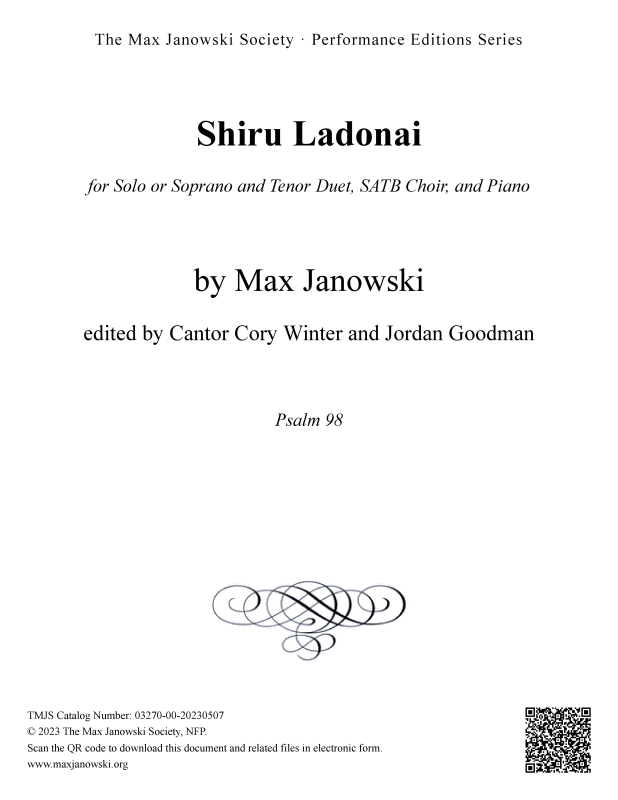
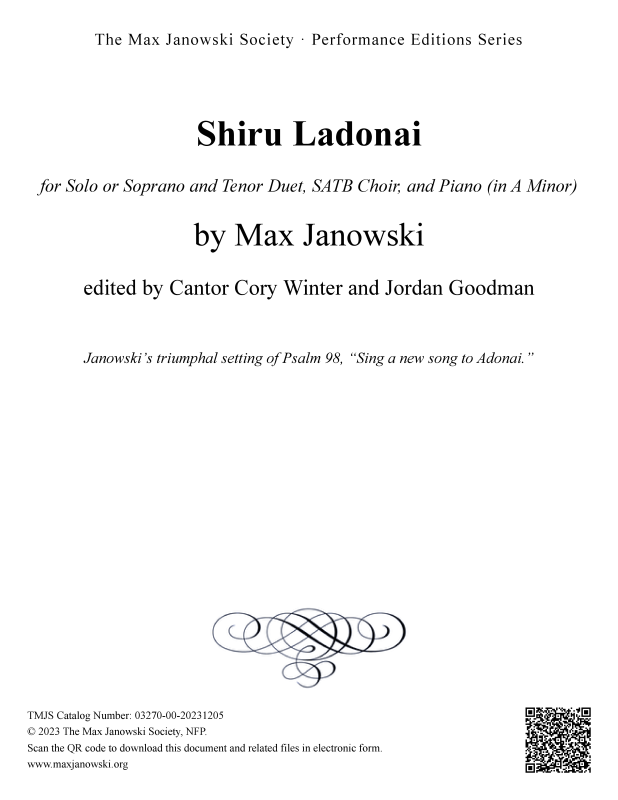
updates for 20240101 release

diff --git a/private/covergen.html b/private/covergen.html
@@ -2,106 +2,117 @@
 sitemap: false
 layout: none
 ---
+
 <!DOCTYPE html>
 <html>
+  <head>
+    <meta charset="utf-8" />
+    <title>TMJS Cover Generator</title>
+    <script
+      src="https://cdnjs.cloudflare.com/ajax/libs/qrcodejs/1.0.0/qrcode.js"
+      defer
+    ></script>
+    <script
+      src="https://unpkg.com/js-yaml@4.1.0/dist/js-yaml.min.js"
+      defer
+    ></script>
+    <link
+      rel="stylesheet"
+      href="https://fonts.googleapis.com/css2?family=Times+New_Roman&amp;family=Noto+Music"
+    />
 
-<head>
-  <meta charset="utf-8"/>
-  <title>TMJS Cover Generator</title>
-  <script src="https://cdnjs.cloudflare.com/ajax/libs/qrcodejs/1.0.0/qrcode.js" defer></script>
-  <script src="https://unpkg.com/js-yaml@4.1.0/dist/js-yaml.min.js" defer></script>
-  <script src="/assets/main.js"></script>
-  <script src="/assets/covergen.js"></script>
-  <link rel="stylesheet" href="/assets/main.css" />
-  <link rel="stylesheet" href="/assets/covergen.css" />
-  <script>
-    window.addEventListener("load", coverGenInit);
-  </script>
-</head>
+    <script src="/assets/main.js"></script>
+    <script src="/assets/covergen.js"></script>
+    <link rel="stylesheet" href="/assets/main.css" />
+    <link rel="stylesheet" href="/assets/covergen.css" />
+    <script>
+      window.addEventListener("load", coverGenInit);
+    </script>
+  </head>
 
-<body>
-  <div id="pageselect">
-    <h2>The Max Janowski Society</h2>
-    <h1>Cover Page Generator</h1>
-    <p>
-      For internal use only.
-    </p>
-    <p>
-      When printing (or saving to PDF for insertion into sheet music):
-    </p>
-    <ul>
-      <li>
-        Paper size: U.S. Letter
-      </li>
-      <li>
-        Orientation: Portrait
-      </li>
-      <li>
-        Margins: None
-      </li>
-      <li>
-        Scaling: 100%
-      </li>
-      <li>
-        Headers/Footers: off
-      </li>
-    </ul>
-    <div id="errormsg"></div>
-    <div id="dragdrop">Drop yaml file here!</div>
-    Version:
-    <select id="select-version" name="version">
-      <option value="00" selected>00</option>
-    </select>
-  </div>
-  <div id="pages" class="">
-    <div class="print-page cover-page break-after">
-      <div>
-        <p class="head">The Max Janowski Society · Performance Editions Series</p>
-        <p class="title"></p>
-        <p class="version"></p>
-      </div>
-      <div>
-        <p class="author"></p>
-        <p class="edited"></p>
-      </div>
-      <p class="blurb"></p>
-      <img class="page-break" src="https://www.maxjanowski.org/images/pagebreak-300x87.png" alt="pagebreak" />
-      <div class="footer">
-        <div class="catalog">
-          <p class="catalog-number">TMJS Catalog Number: <span class='sku'></span></p>
-              <p>&copy; <span class="year"></span> The Max Janowski Society, NFP.</p>
-              <p>Scan the QR code to download this document and related files in electronic form.</p>
-              <p>www.maxjanowski.org</p>
-        </div>
-        <div class="qr-code"></div>
-      </div>
+  <body>
+    <div id="pageselect">
+      <h2>The Max Janowski Society</h2>
+      <h1>Cover Page Generator</h1>
+      <p>For internal use only.</p>
+      <p>When printing (or saving to PDF for insertion into sheet music):</p>
+      <ul>
+        <li>Paper size: U.S. Letter</li>
+        <li>Orientation: Portrait</li>
+        <li>Margins: None</li>
+        <li>Scaling: 100%</li>
+        <li>Headers/Footers: off</li>
+      </ul>
+      <div id="errormsg"></div>
+      <div id="dragdrop">Drop yaml file here!</div>
+      Version:
+      <select id="select-version" name="version">
+        <option value="00" selected>00</option>
+      </select>
     </div>
-    <div class="print-page cover-page">
-      <div>
-        <p class="head">The Max Janowski Society · Performance Editions Series</p>
-        <p class="title"></p>
-        <p class="version"></p>
-      </div>
-      <div class="pronunciation">
-        <p>
-          Note: Hebrew word accent is generally on the last syllable, except as
-          marked in <strong>bold</strong>.<br />
-          The “ch” is always pronounced as in German <i>Bach</i>.
-        </p>
-      </div>
-      <div class="texts">
-        <div class="transliteration"></div>
-        <div class="hebrew"></div>
-      </div>
-
-      <div class="translation_block">
-        <div class="translation"></div>
-        <div class="credit">
-          <p class="translation_credit"></p>
+    <div id="pages" class="">
+      <div class="print-page cover-page break-after">
+        <div>
+          <p class="head">
+            The Max Janowski Society · Performance Editions Series
+          </p>
+          <p class="title"></p>
+          <p class="version"></p>
+        </div>
+        <div>
+          <p class="author"></p>
+          <p class="edited"></p>
+        </div>
+        <p class="blurb"></p>
+        <img
+          class="page-break"
+          src="https://www.maxjanowski.org/images/pagebreak-300x87.png"
+          alt="pagebreak"
+        />
+        <div class="footer">
+          <div class="catalog">
+            <p class="catalog-number">
+              TMJS Catalog Number: <span class="sku"></span>
+            </p>
+            <p>
+              &copy; <span class="year"></span> The Max Janowski Society, NFP.
+            </p>
+            <p>
+              Scan the QR code to download this document and related files in
+              electronic form.
+            </p>
+            <p>www.maxjanowski.org</p>
+          </div>
+          <div class="qr-code"></div>
         </div>
       </div>
-    </div>
-  </div>
-</body>
+      <div class="print-page cover-page">
+        <div>
+          <p class="head">
+            The Max Janowski Society · Performance Editions Series
+          </p>
+          <p class="title"></p>
+          <p class="version"></p>
+        </div>
+        <div class="pronunciation">
+          <p>
+            Note: Hebrew word accent is generally on the last syllable, except
+            as marked in <strong>bold</strong>.<br />
+            The “ch” is always pronounced as in German <i>Bach</i>.
+          </p>
+        </div>
+        <div class="texts">
+          <div class="transliteration"></div>
+          <div class="hebrew"></div>
+        </div>
 
+        <div class="translation_block">
+          <div class="translation"></div>
+          <div class="credit">
+            <p class="translation_credit"></p>
+          </div>
+        </div>
+      </div>
+    </div>
+  </body>
 </html>

diff --git a/_sass/edition.scss b/_sass/edition.scss
@@ -109,23 +109,28 @@ img.download-button {
 }
 
 .break-after {
-  break-after: always;
+  page-break-after: always;
+  break-after: page;
 }
 
 .print-page {
   font-size: 24px;
-  width: 8.5in;
-  height: 11in;
   padding: 0.375in;
+  width: 7.75in; // subtract margin*2
+  height: 10.25in; // subtract margin*2
+  overflow: hidden;
 }
 
 .cover-page {
-  box-sizing: border-box;
-  font-family: 'Noto Serif';
+  font-family: "Times New Roman", "Noto Serif", "Noto Music";
   display: flex;
   flex-flow: column nowrap;
   justify-content: space-between;
   align-items: center;
+
+  span.accidental {
+    vertical-align: super;
+  }
 
   .head {
     font-size: 90%;
@@ -146,6 +151,13 @@ img.download-button {
     text-align: center;
   }
 
+  .blurb {
+    font-size: 85%;
+    font-style: italic;
+    text-align: left;
+    padding: 2em 3em 0 3em;
+  }
+
   .author {
     font-size: 180%;
     text-align: center;
@@ -158,8 +170,8 @@ img.download-button {
 
   .page-break {
     width: 50%;
+    margin-top: auto;
     display: block;
-    padding-top: 5em;
   }
 
   .texts {
@@ -192,7 +204,7 @@ img.download-button {
     display: none; // hide for now
     width: 100%;
     p {
-      font-size: .6em;
+      font-size: 0.6em;
     }
   }
 
@@ -206,7 +218,7 @@ img.download-button {
       font-style: italic;
       margin-left: 0;
       p {
-        font-size: .65em;
+        font-size: 0.65em;
         font-style: italic;
         text-align: left;
         margin: 0;
@@ -214,8 +226,8 @@ img.download-button {
     }
   }
 
-
   .footer {
+    margin-top: 1em;
     width: 100%;
     display: flex;
     flex-flow: row;
@@ -233,4 +245,8 @@ img.download-button {
       width: 3.6em;
     }
   }
+}
+
+@page {
+  size: letter;
 }

diff --git a/assets/covergen.js b/assets/covergen.js
@@ -2,7 +2,9 @@ var $coverGen = {};
 
 function coverGenInit() {
   return initItemFromQueryParms().then((item) => {
-    document.title = `${item.id}-${item.release}-cover`;
+    release = item.versions[$coverGen.version].release || item.release;
+    $coverGen.sku = `${item.id}-${$coverGen.version}-${release}`;
+    document.title = `${$coverGen.sku}-cover`;
 
     initDragDrop();
     console.log("init complete");
@@ -157,8 +159,6 @@ function loadPage(wrapper) {
   wrapper.classList.remove("ready");
   let item = $coverGen.item;
   const version = $coverGen.version || "00";
-  item.sku = `${item.id}-${version}-${item.release}`;
-  item.year = item.release.slice(0, 4);
   // version values override item values
   if (item.versions && item.versions[version]) {
     item = {
@@ -166,10 +166,11 @@ function loadPage(wrapper) {
       ...item.versions[version],
     };
   }
+  item.sku = `${item.id}-${version}-${item.release}`;
+  item.year = item.release.slice(0, 4);
   const q = new URLSearchParams({
     id: item.id,
-    release: item.release,
-    version: version,
+    productRelease: item.productRelease,
     utm_source: "sm",
     utm_medium: "qr",
     utm_campaign: item.sku,
@@ -183,9 +184,10 @@ function loadPage(wrapper) {
     });
   }
   Object.keys(item).forEach((k) => {
-    const v = item[k];
+    let v = item[k];
     if (v) {
       for (n of document.getElementsByClassName(k)) {
+        v = v.replace(/([A-G])([♭♯♮])/, '$1<span class="accidental">$2</span>'); // mark accidentals
         if (["hebrew", "translation", "transliteration"].includes(k)) {
           n.innerHTML = `<p>${v.replace("\n", "</p><p>")}</p>`;
         } else {

diff --git a/assets/covergen.scss b/assets/covergen.scss
@@ -1,5 +1,6 @@
 ---
 ---
+
 #pageselect {
   border-bottom: 2px dashed blue;
   padding: 3em;
@@ -11,11 +12,11 @@
   }
 
   #dragdrop {
-    margin: .25in;
-    padding: .25in;
+    margin: 0.25in;
+    padding: 0.25in;
     display: inline-block;
     width: 2in;
-    height: .5in;
+    height: 0.5in;
     background: #844;
     color: white;
     font-weight: bold;
@@ -49,10 +50,6 @@
 }
 
 @media print {
-  @page { 
-    margin: 0;
-    size: 8.5in 11in;
-  }
   #pageselect {
     display: none !important;
   }

diff --git a/_includes/head.html b/_includes/head.html
@@ -3,7 +3,7 @@
 <meta http-equiv="X-UA-Compatible" content="IE=edge"/>
 <meta name="viewport" content="width=device-width, initial-scale=1"/>
 <link rel="stylesheet"
-      href="https://fonts.googleapis.com/css2?family=Noto+Serif&amp;family=Roboto">
+      href="https://fonts.googleapis.com/css2?family=Noto+Serif&amp;family=Roboto&amp;family=Noto+Music">
 
 {% include icons.html -%}
 {%- if page.sitemap == false -%}
